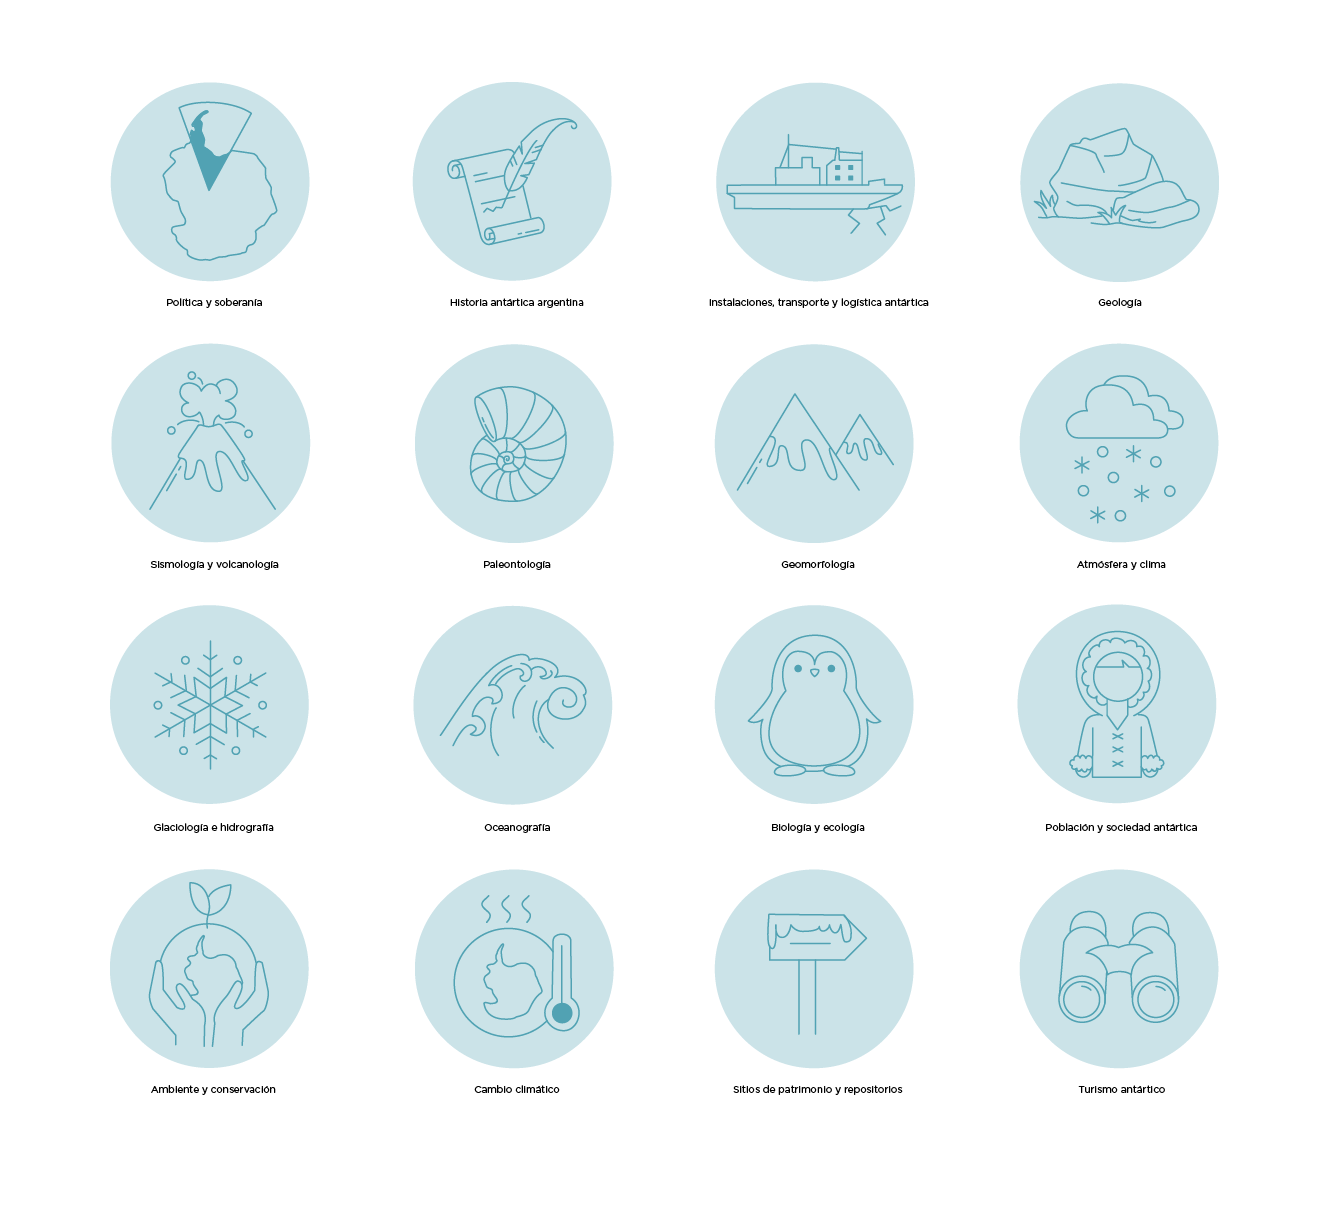
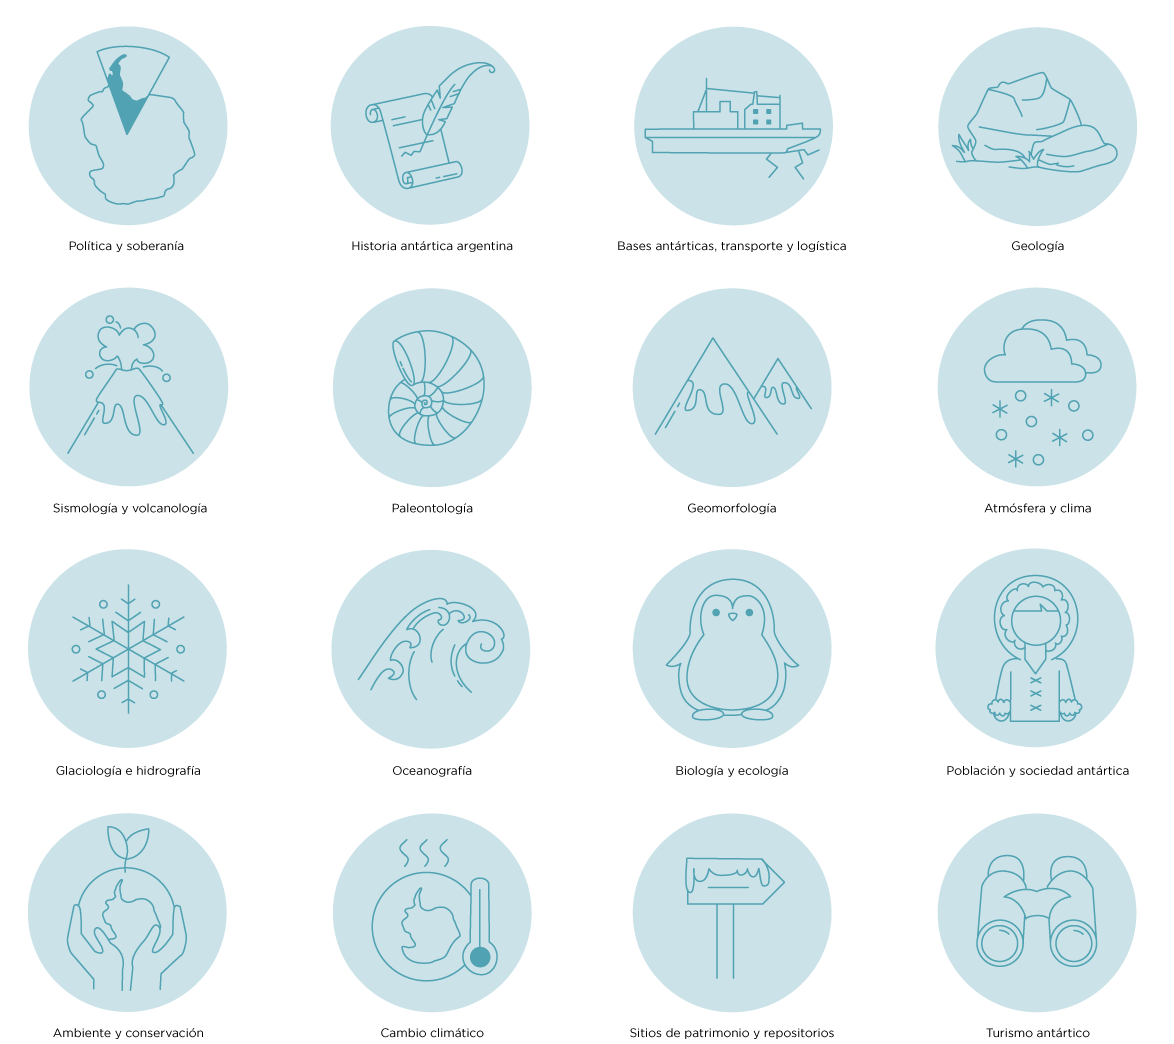
actualización de img

diff --git a/index.html b/index.html
@@ -136,6 +136,13 @@
             </a>
             <hr>
         </div>
+        <div id="arg-soc-bot" class="col-sm-6 col-md-4">
+            <a id="bases-antarticas" target="_blank" href="https://antartida-anida.ign.gob.ar/mapstore/#/geostory/410">
+                <img src="iconos_PIDEFF-03_basesantarticas" class="img-center" style="width:50%; padding:2%;">
+                <p>Bases antárticas, transporte y logística</p>
+            </a>
+            <hr>
+        </div>
     </div>
 
     <footer class="container-fluid text-center full-width hidden-xs" style="position:fixed; bottom:0px; height:70px; padding-top:0px">
